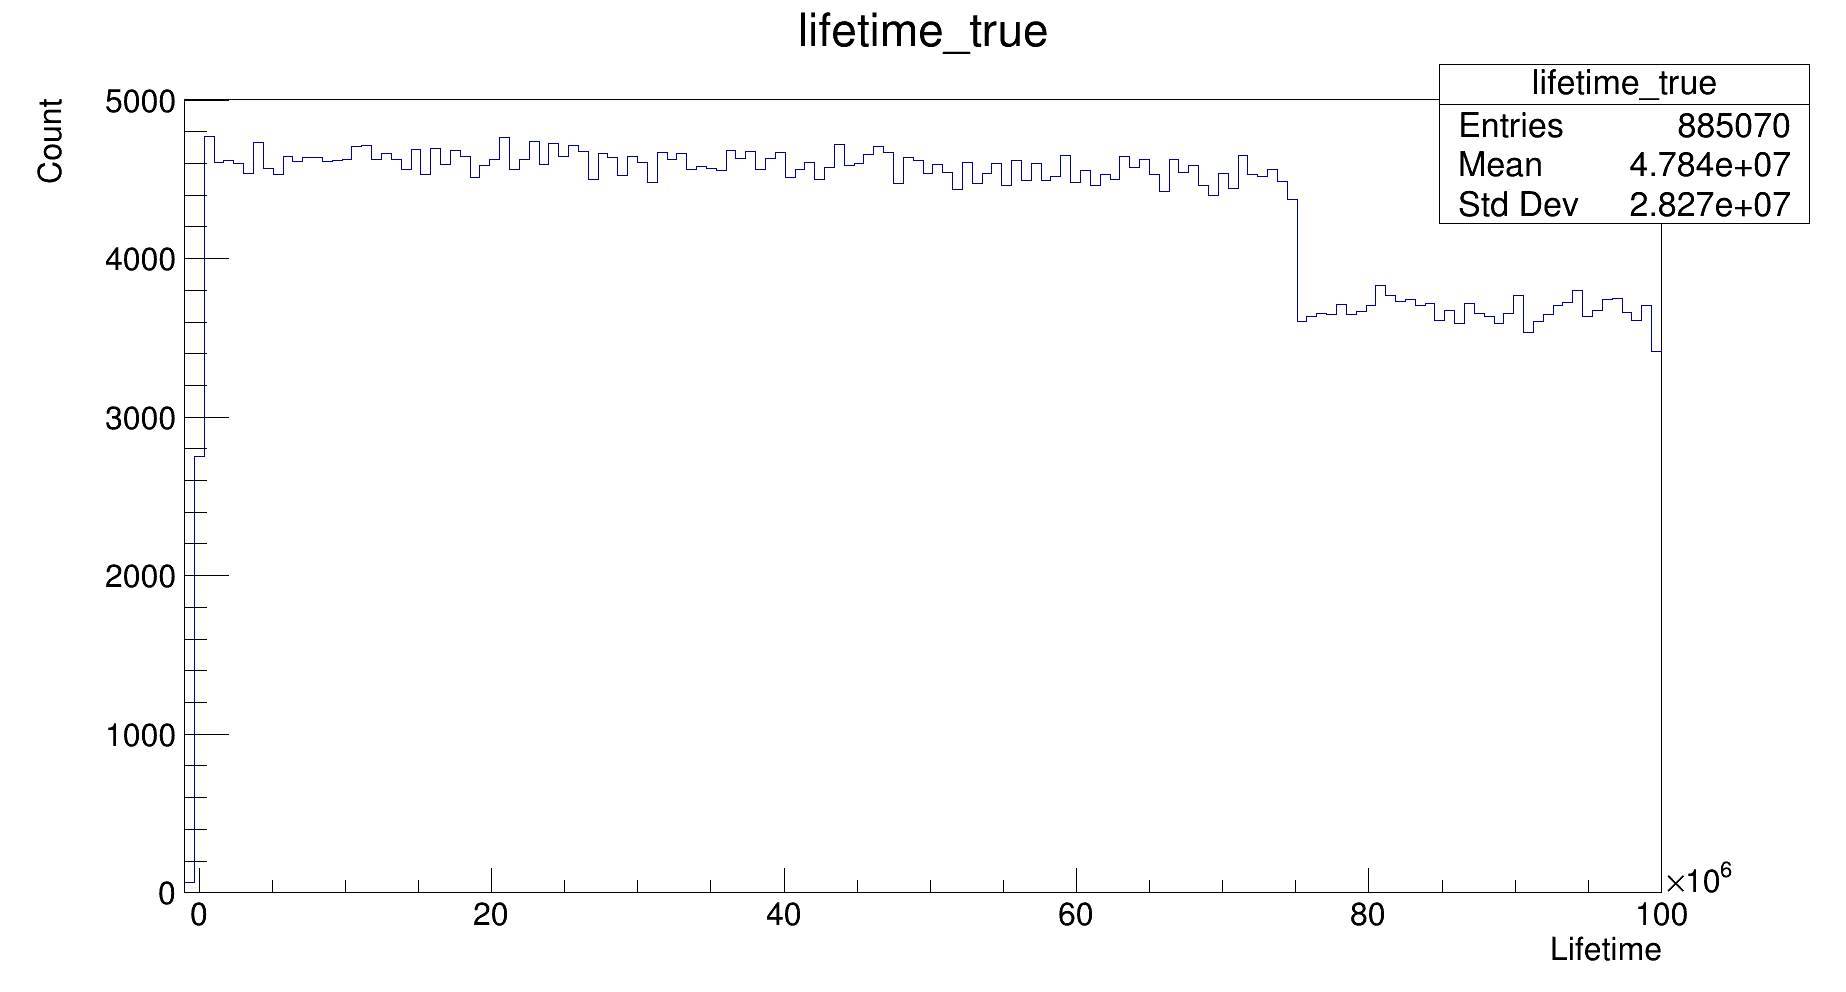
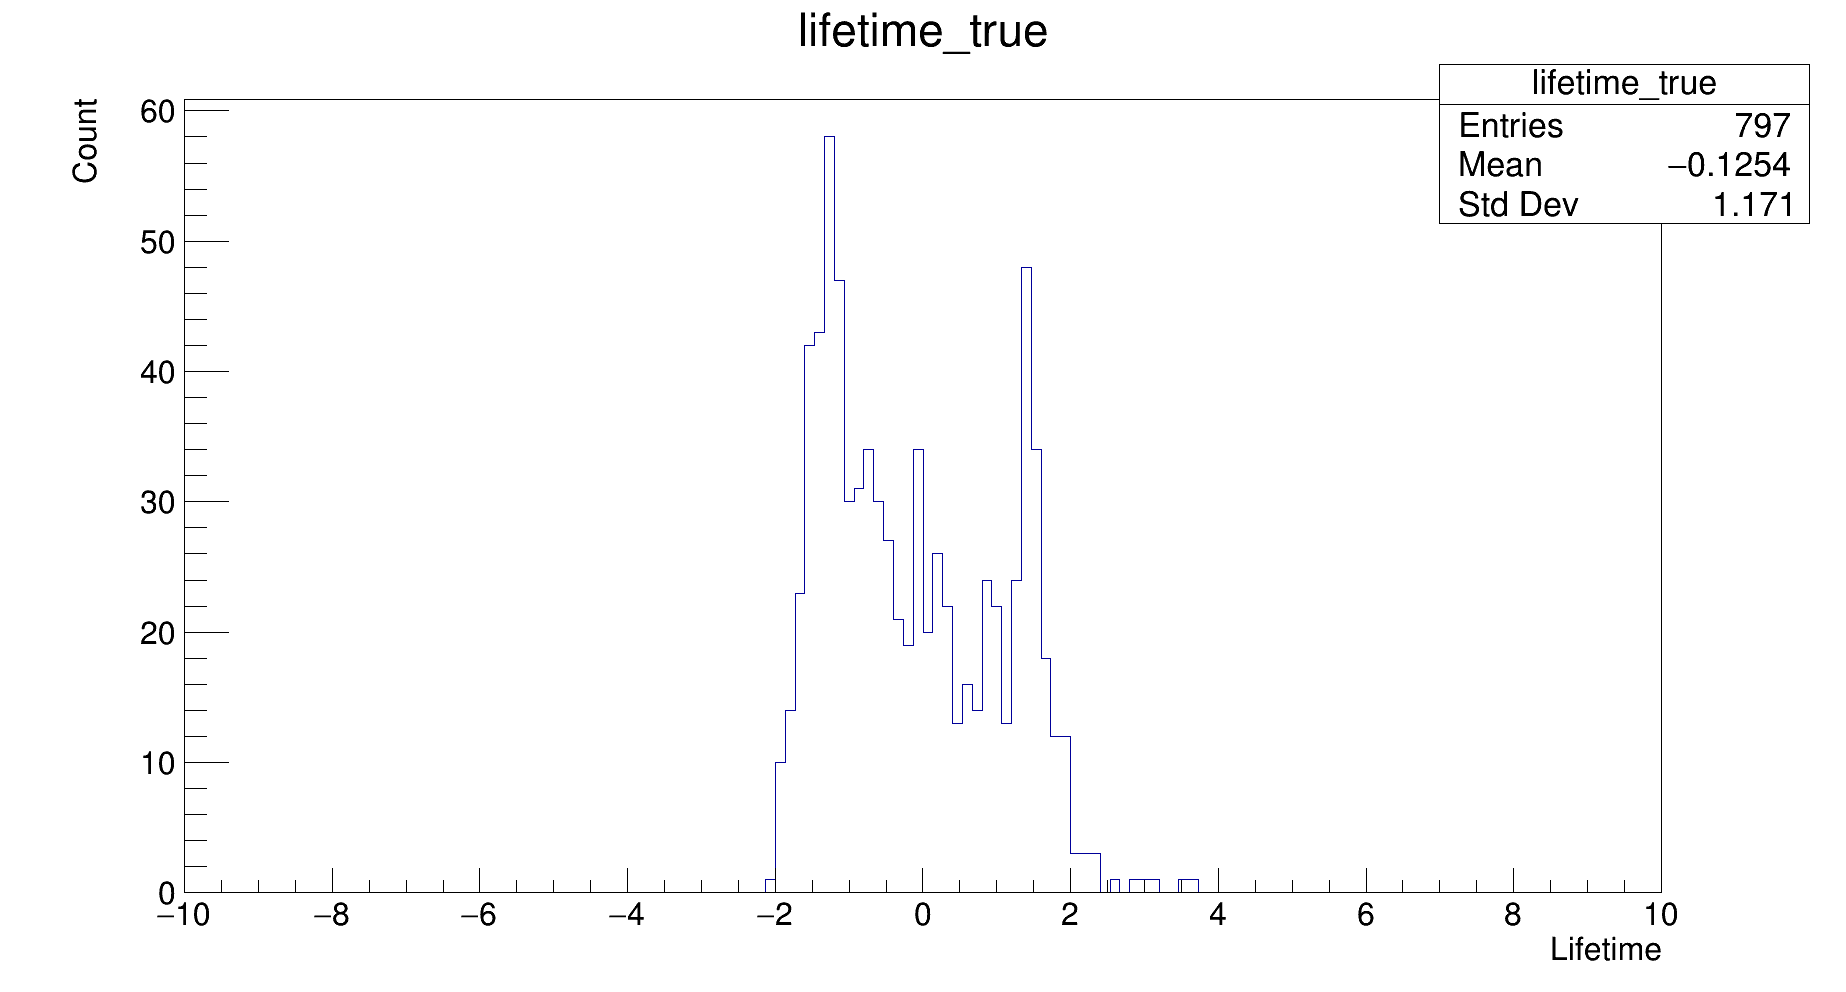
Made adjustments for units. Minor fixes.

diff --git a/DTW_algorithm/DTW.cpp b/DTW_algorithm/DTW.cpp
@@ -52,8 +52,8 @@ void DTW(){
 	auto df_fltr = df.Filter("numberOfHits == 3 && isPickOff && !isScattered && containsPrompt");
 	
 	//Split between true events and randoms
-	auto df_true = df.Filter("!isAcc");
-	auto df_acc = df.Filter("isAcc");
+	auto df_true = df_fltr.Filter("!isAcc");
+	auto df_acc = df_fltr.Filter("isAcc");
 	
 	
 	//Calculate and plot lifetimes
@@ -62,7 +62,7 @@ void DTW(){
 	
 	//ture
 	std::unique_ptr<TCanvas> canv(new TCanvas("canv", "canv", 1920, 1080));
-	TH1F *histTrue = new TH1F("lifetime_true","lifetime_true",150,-1000000,100000000);
+	TH1F *histTrue = new TH1F("lifetime_true","lifetime_true",150,-10,10);
 	
 	for (int i = 0; i < lf_True.size(); i++){
 		histTrue->Fill(lf_True[i]);
@@ -74,7 +74,7 @@ void DTW(){
 	
 	//acc
 	std::unique_ptr<TCanvas> canv2(new TCanvas("canv2", "canv2", 1920, 1080));
-	TH1F *histAcc = new TH1F("lifetime_acc","lifetime_acc",150,-1000000,100000000);
+	TH1F *histAcc = new TH1F("lifetime_acc","lifetime_acc",150,-10,10);
 	
 	for (int i = 0; i < 20; i++){
 		cout << lf_Acc[i] << endl;

diff --git a/DTW_algorithm/calc_lifetime.h b/DTW_algorithm/calc_lifetime.h
@@ -11,9 +11,9 @@
 
 
 vector<float> calc_lifetime(ROOT::RDF::RInterface<ROOT::Detail::RDF::RJittedFilter, void> df){
-	float timeRescale = 1;	//rescale time unit to seconds
+	float timeRescale = 1/1000;	//rescale time unit to seconds
 	float posRescale = 1;	//rescale position to centimeters
-	float c = TMath::C();		//speed of light [m/s]
+	float c = 30;		//speed of light [cm/ns]
 	auto time_Vec = *(df.Take<vector<float>>("time"));
 	auto x_Vec = *(df.Take<vector<float>>("x"));
 	auto y_Vec = *(df.Take<vector<float>>("y"));
